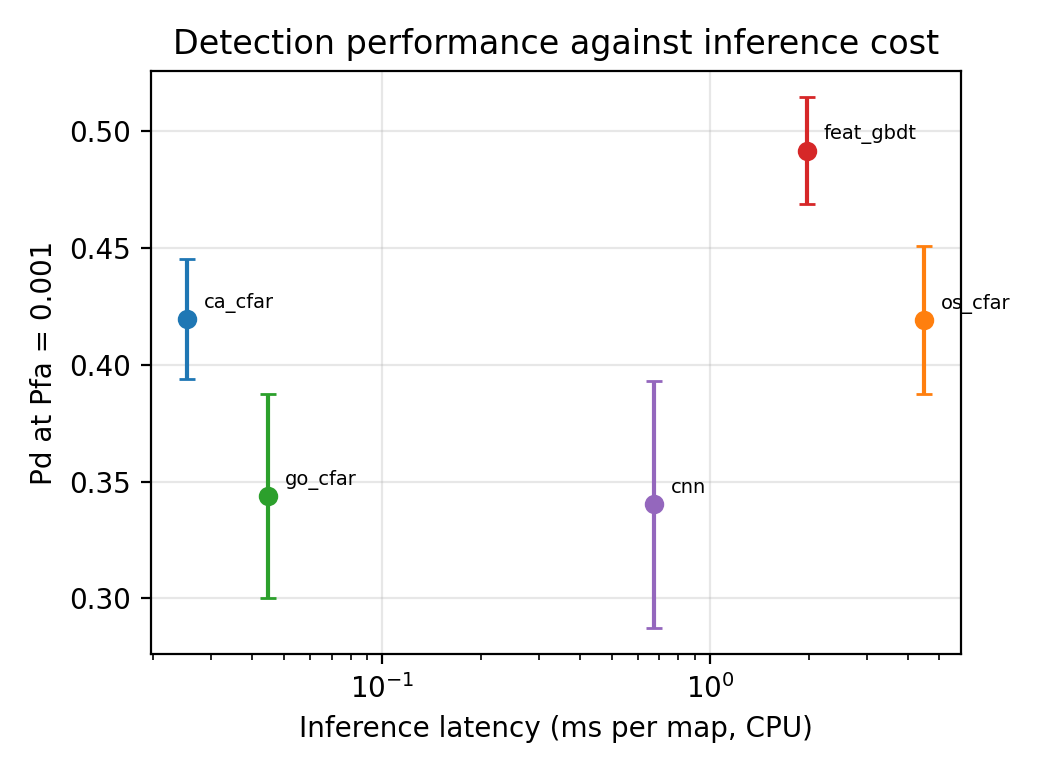
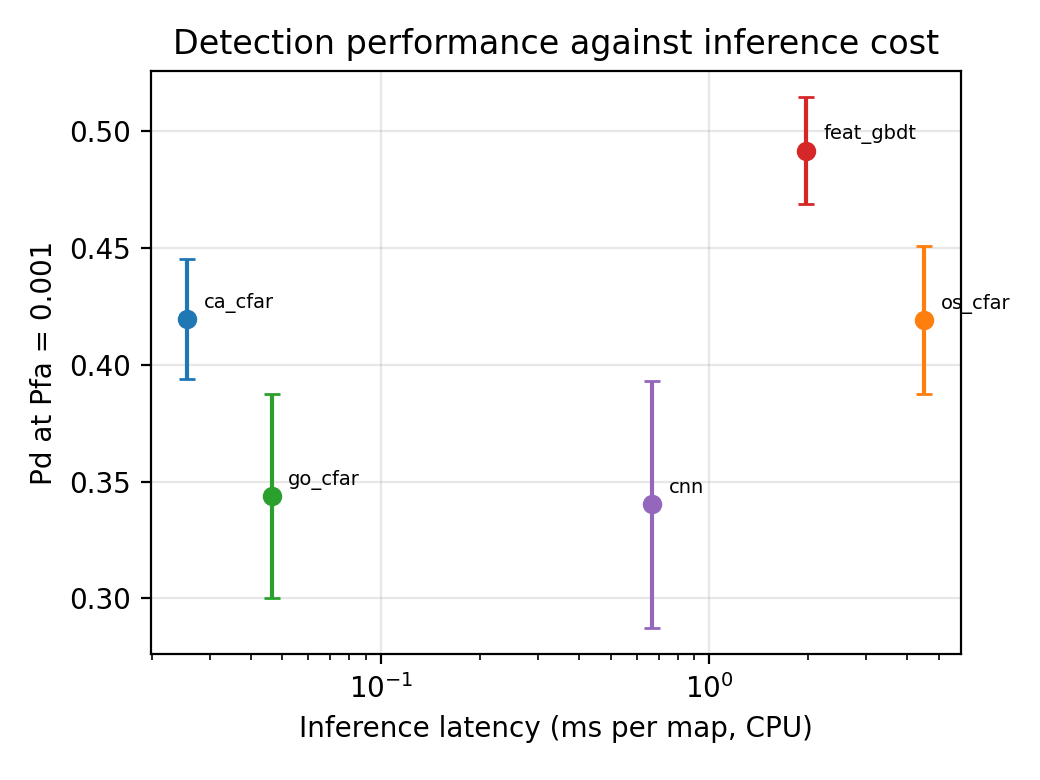
exp001: re-run at HEAD, add run notes

diff --git a/experiments/exp001_smoke_pipeline_check/notes.md b/experiments/exp001_smoke_pipeline_check/notes.md
@@ -1,0 +1,23 @@
+# exp001 — does the apparatus run end to end and produce the three reported figures?
+
+* **Research question:** none — this is an apparatus check, not a result.
+* **Config:** `configs/protocol/smoke.yaml` (snapshot in `results.json`)
+* **Simulator:** `stub` v0.2.0 — ⚠ **not the research group's function; nothing here is reportable**
+* **Seeds:** 2 · **Machine:** macOS laptop, CPU only
+
+## Reading
+
+The pipeline runs: five detectors across three families are generated, tuned-by-config,
+scored, evaluated under one protocol and reported with cost, in about three minutes.
+Two things are worth noting as apparatus behaviour rather than findings:
+
+1. The feature-based classifier leads at low Pfa. On the stand-in simulator that is
+   expected — it sees three window scales plus Doppler geometry, where CA-CFAR sees one.
+2. The small CNN sits below the CFAR baselines. At 400 training maps that is an
+   undertrained model, not evidence about the family. It is exactly the comparison the
+   full protocol exists to make properly, at scale and at equal tuning budget.
+
+## Follow-ups
+
+* M2: integrate the group's simulator through `adapter.py`; re-run this config against it.
+* M2: run `prdbench tune` for every arm before any comparison is reported.
